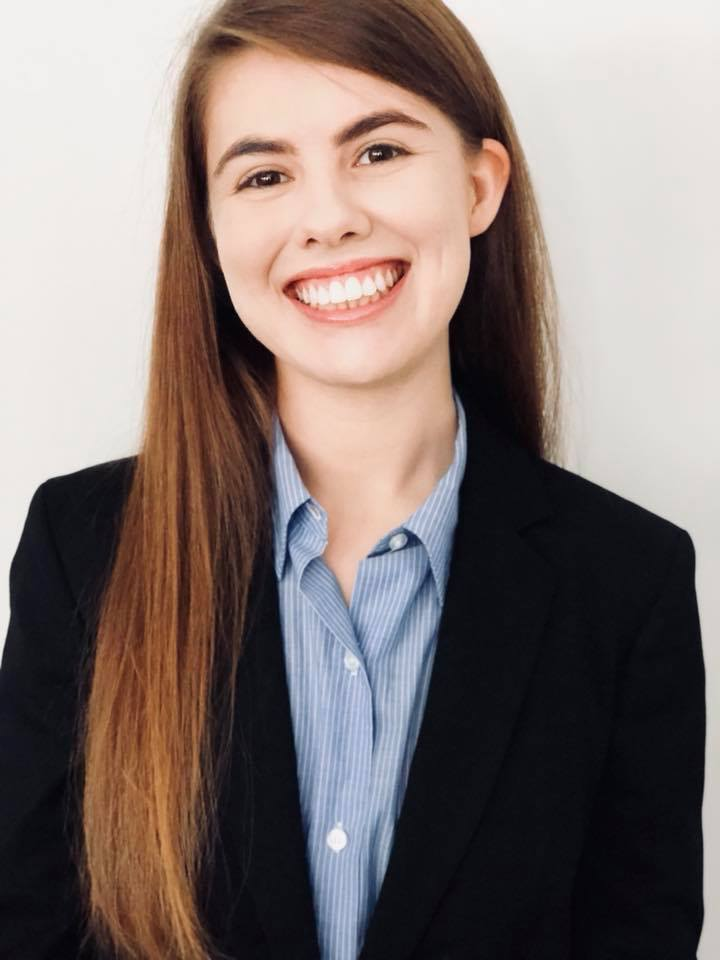
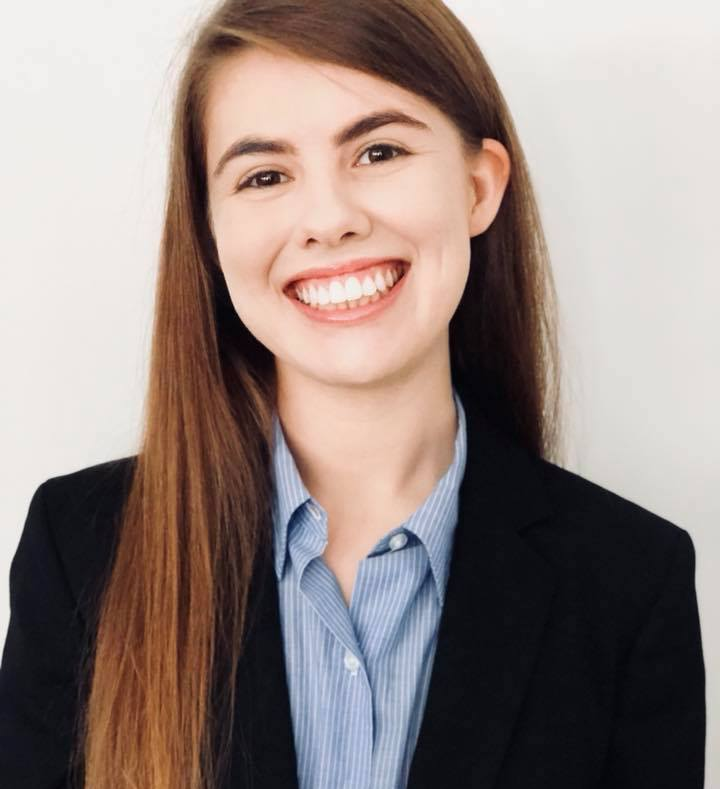
mobile nav close on clickoutside

diff --git a/index.js b/index.js
@@ -1,6 +1,33 @@
 console.log("Connected");
 
+//index and about
 $(".hamburger").click(function () {
   $(".nav-menu-mobile").toggle();
-  $(".nav-menu-mobile").toggleClass("show");
+  $(".nav-menu-mobile").addClass("show");
+});
+
+//mobile nav close on click outside index.html
+$(".hero-text-container").click(function () {
+  $(".nav-menu-mobile").hide();
+});
+
+$("#work").click(function () {
+  $(".nav-menu-mobile").hide();
+});
+
+$("footer").click(function () {
+  $(".nav-menu-mobile").hide();
+});
+
+//mobile nav close on click outside about.html
+$(".hero").click(function () {
+  $(".nav-menu-mobile").hide();
+});
+
+$(".info-paragraphs").click(function () {
+  $(".nav-menu-mobile").hide();
+});
+
+$("footer").click(function () {
+  $(".nav-menu-mobile").hide();
 });

diff --git a/styles/about.css b/styles/about.css
@@ -134,16 +134,17 @@ header {
 
 .hero-container {
   background-image: url(../assets/profile-img.jpg);
-  background-size: 50%;
+  background-size: 53%;
   background-repeat: no-repeat;
-  background-position: 98% 35%;
+  background-position: 98% 15%;
   padding: 40%;
+  margin-bottom: -10%;
 }
 
 /* info paragraphs styles */
 .info-paragraphs {
   background-color: #e2ebff;
-  padding: 5%;
+  padding: 5% 0;
 }
 
 .info-paragraphs p {

diff --git a/about.html b/about.html
@@ -42,8 +42,8 @@
     <section class="hero">
       <h1>Get to Know Me!</h1>
       <h2>
-        “You cannot understand good design if you don’t understand people.” -
-        Dieter Rams
+        “You cannot understand good design if you don’t understand people.”
+        <br />- Dieter Rams
       </h2>
       <div class="hero-container">
         <!-- <img
